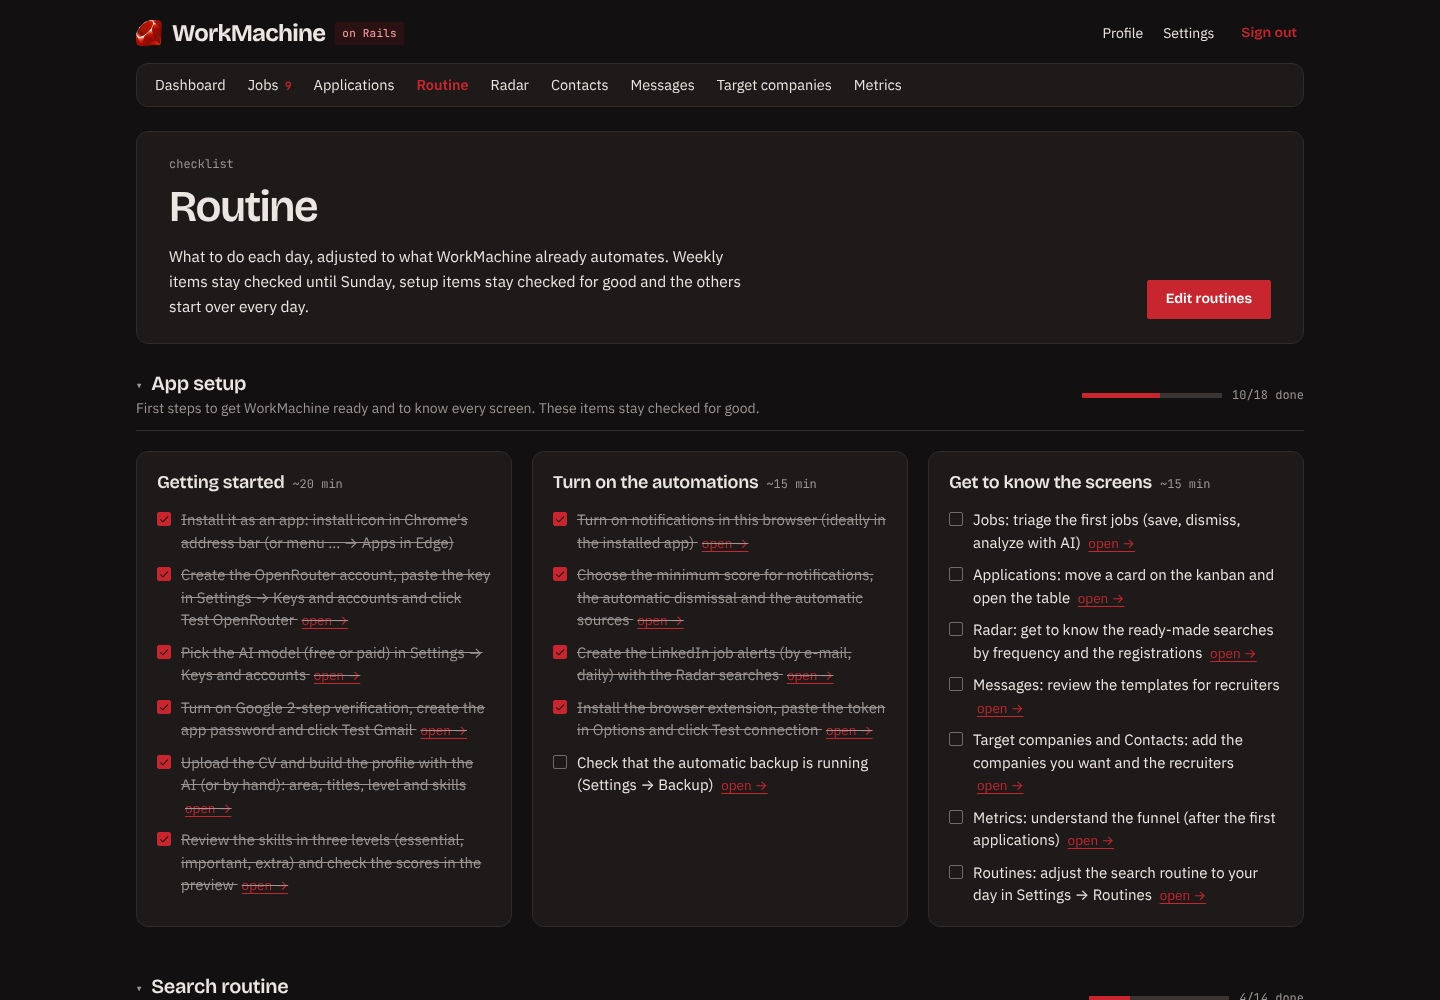
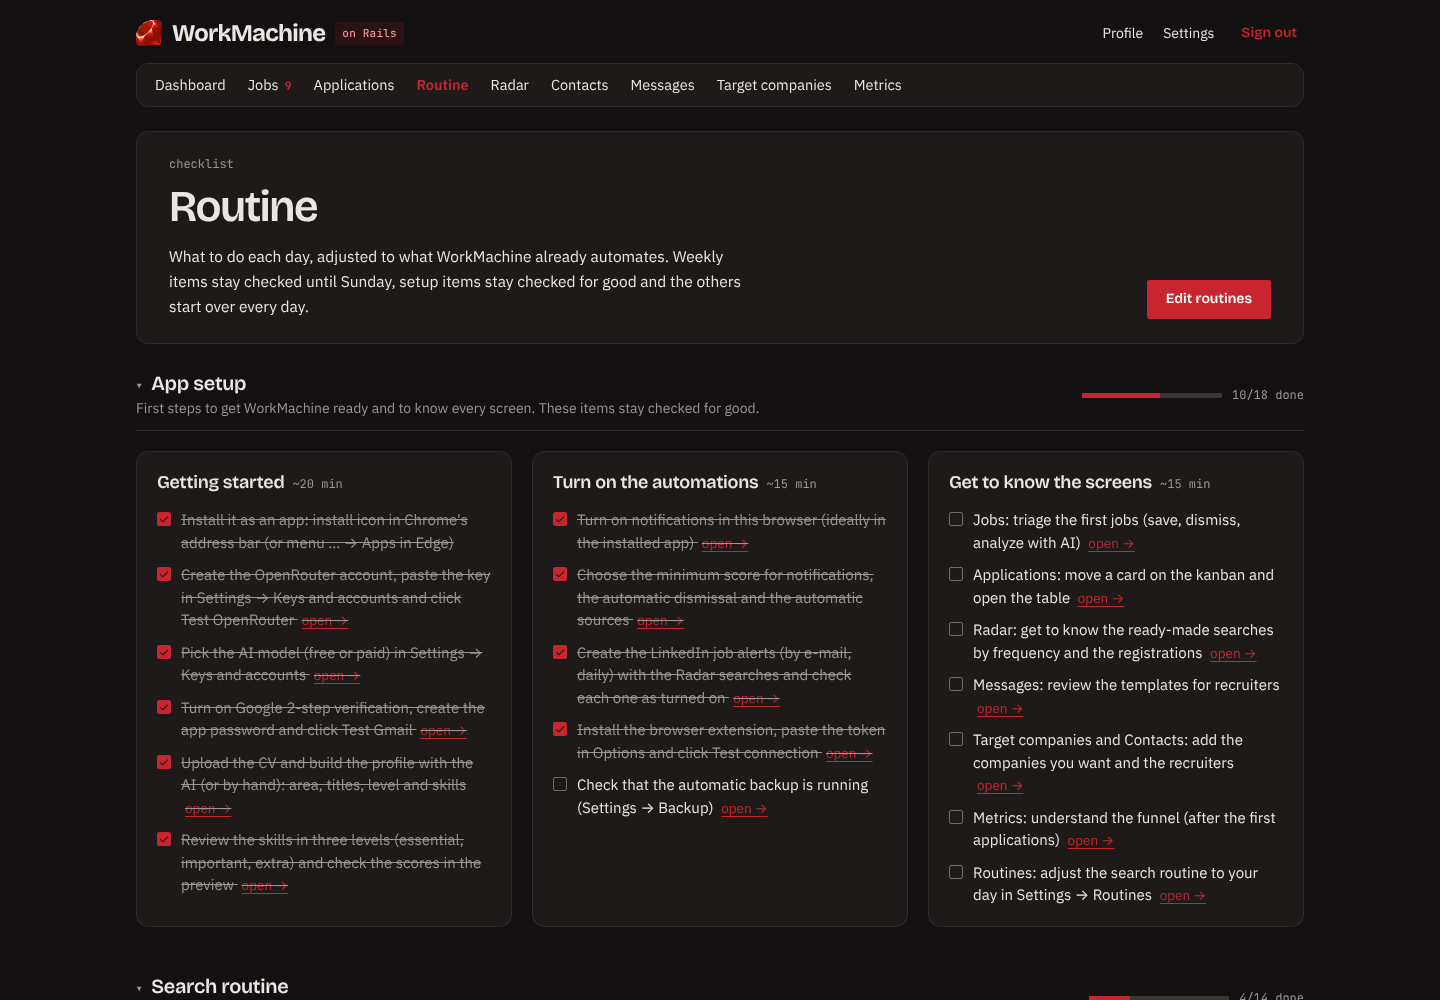
Feat: alertas do LinkedIn com caixa de ativado no Radar
- Cada busca de Alertas do LinkedIn ganha a caixa "ativado": as marcadas vão
  para o fim da lista, com a data, e a contagem "3 de 7 alertas ativados"
- A marcação fica gravada pela consulta (ActivatedAlert): quando o perfil muda
  uma busca, ela volta como alerta novo, e a antiga aparece em "Buscas antigas
  que continuam ativadas", para desligar no LinkedIn
- O topo do Radar avisa quantos alertas faltam ativar (com o atalho para a
  seção) e a aba Uma vez mostra o número
- Ao salvar o perfil, o aviso diz quantos alertas novos o Radar tem
- Rotina, READMEs e prints do Radar e da Rotina atualizados

Changed region(s): [[0.375, 0.651, 0.625, 0.837]]

diff --git a/app/javascript/controllers/cadence_controller.js b/app/javascript/controllers/cadence_controller.js
@@ -1,14 +1,13 @@
 import { Controller } from "@hotwired/stimulus"
 
 // Radar: shows only the tasks of the chosen frequency (Todo dia, Toda semana, Uma vez). The choice
-// goes in the address (#weekly), and a link to a task (#cadastros) opens its frequency.
+// goes in the address (#weekly), and a link to a task (#cadastros) opens its frequency, also from
+// the same page (the "alertas para ativar" notice).
 export default class extends Controller {
   static targets = ["option", "panel"]
 
   connect() {
-    const hash = decodeURIComponent(window.location.hash.slice(1))
-    const panel = hash ? document.getElementById(hash)?.closest("[data-cadence]") : null
-    this.show(panel?.dataset.cadence || this.optionTargets.find((option) => option.checked)?.value)
+    this.show(this.linkedPanel()?.dataset.cadence || this.optionTargets.find((option) => option.checked)?.value)
   }
 
   change(event) {
@@ -16,8 +15,20 @@ export default class extends Controller {
     window.history.replaceState(window.history.state, "", `#${event.target.value}`)
   }
 
+  follow() {
+    const panel = this.linkedPanel()
+    if (!panel) return
+    this.show(panel.dataset.cadence)
+    document.getElementById(decodeURIComponent(window.location.hash.slice(1)))?.scrollIntoView()
+  }
+
   show(key) {
     this.optionTargets.forEach((option) => { option.checked = option.value === key })
     this.panelTargets.forEach((panel) => { panel.hidden = panel.dataset.cadence !== key })
+  }
+
+  linkedPanel() {
+    const hash = decodeURIComponent(window.location.hash.slice(1))
+    return hash ? document.getElementById(hash)?.closest("[data-cadence]") : null
   }
 }

diff --git a/spec/requests/radar_spec.rb b/spec/requests/radar_spec.rb
@@ -30,11 +30,75 @@ RSpec.describe "Radar" do
     expect(response.body).to include("1 alerta lido; o último chegou em 20/10 08:42")
   end
 
+  describe "LinkedIn alerts" do
+    let(:searches) { Radar.alert_searches }
+
+    it "lists the alerts with a box, the ones already on at the end, and counts the ones left" do
+      cargos = searches.find { it["key"] == "alert_cargos" }
+      ActivatedAlert.create!(search_key: "alert_cargos", query: cargos["query"], created_at: Time.zone.local(2026, 10, 20, 9))
+
+      get radar_path
+
+      body = response.body
+      left = searches.size - 1
+      expect(body).to include("#{left} alertas do LinkedIn para ativar", 'href="#linkedin_alerts"', "1 de #{searches.size} alertas ativados", "ativado em 20/10")
+      expect(body).to match(%r{id="pending_alerts_count"[^>]*>#{left}</span>})
+      expect(body).to include('id="alert_alert_nivel"', 'id="alert_alert_cargos"')
+      expect(body.index('id="alert_alert_nivel"')).to be < body.index('id="alert_alert_cargos"')
+      expect(body).not_to include("Buscas antigas que continuam ativadas")
+    end
+
+    it "lists the alerts turned on for a query that the profile no longer makes" do
+      ActivatedAlert.create!(search_key: "alert_cargos", query: '("Desenvolvedor Python" OR "Python Developer")')
+
+      get radar_path
+
+      expect(response.body).to include("Buscas antigas que continuam ativadas", "Cargos alvo", "Desenvolvedor Python")
+    end
+
+    it "hides the notice while the profile is empty" do
+      Profile.current.update!(skills: [], search_terms: [])
+
+      get radar_path
+
+      expect(response.body).not_to include("para ativar")
+    end
+  end
+
   it "applies and remembers the filters" do
     get radar_path(li_region: "world_remote", li_period: "r2592000")
     get radar_path
 
     expect(response.body).to include("geoId=92000000&amp;f_WT=2&amp;f_TPR=r2592000")
+  end
+end
+
+RSpec.describe "Activated alerts" do
+  before { sign_in }
+
+  let(:search) { Radar.alert_searches.first }
+
+  it "turns an alert on and off, sending the list back in its new order" do
+    post activated_alerts_path, params: { search_key: search["key"], query: search["query"] }, as: :turbo_stream
+
+    expect(response.media_type).to eq(Mime[:turbo_stream])
+    alert = ActivatedAlert.sole
+    expect(alert).to have_attributes(search_key: search["key"], query: search["query"])
+    expect(response.body).to include("linkedin_alerts_list", "pending_alerts_count", "1 de #{Radar.alert_searches.size} alertas ativados")
+
+    post activated_alerts_path, params: { search_key: search["key"], query: search["query"] }, as: :turbo_stream
+    expect(ActivatedAlert.count).to eq(1)
+
+    delete activated_alert_path(alert)
+
+    expect(response).to redirect_to(radar_path(anchor: "linkedin_alerts"))
+    expect(ActivatedAlert.count).to eq(0)
+  end
+
+  it "ignores an alert that is already off" do
+    delete activated_alert_path(42), as: :turbo_stream
+
+    expect(response).to have_http_status(:ok)
   end
 end
 

diff --git a/spec/models/activated_alert_spec.rb b/spec/models/activated_alert_spec.rb
@@ -1,0 +1,32 @@
+require "rails_helper"
+
+RSpec.describe ActivatedAlert do
+  let(:searches) do
+    [ { "key" => "alert_cargos", "query" => "(Rails OR Ruby)" }, { "key" => "alert_area", "query" => "Rails AND backend" },
+      { "key" => "alert_nivel", "query" => "Rails AND senior" } ]
+  end
+
+  it "puts the alerts to turn on first and the ones already on at the end, the latest last" do
+    nivel = described_class.create!(search_key: "alert_nivel", query: "Rails AND senior", created_at: 2.days.ago)
+    cargos = described_class.create!(search_key: "alert_cargos", query: "(Rails OR Ruby)", created_at: 1.day.ago)
+
+    sorted = described_class.sorted(searches)
+
+    expect(sorted.map { it.first["key"] }).to eq(%w[alert_area alert_nivel alert_cargos])
+    expect(sorted.map(&:last)).to eq([ nil, nivel, cargos ])
+    expect(described_class.pending_count(searches)).to eq(1)
+  end
+
+  it "lists as outdated the alerts turned on for a query the profile no longer makes" do
+    described_class.create!(search_key: "alert_area", query: "Rails AND backend")
+    old = described_class.create!(search_key: "alert_area", query: "Ruby AND backend")
+
+    expect(described_class.outdated(searches)).to eq([ old ])
+  end
+
+  it "keeps one alert per query" do
+    described_class.create!(search_key: "alert_area", query: "Rails AND backend")
+
+    expect(described_class.new(search_key: "alert_nivel", query: "Rails AND backend")).not_to be_valid
+  end
+end

diff --git a/app/controllers/activated_alerts_controller.rb b/app/controllers/activated_alerts_controller.rb
@@ -1,0 +1,30 @@
+# The "ativado" box of the LinkedIn alerts in the Radar. The whole list is rendered again, since a
+# checked alert moves to the end, and so are the counts of alerts left to turn on.
+class ActivatedAlertsController < ApplicationController
+  def create
+    ActivatedAlert.find_or_create_by!(query: params.require(:query)) { it.search_key = params.require(:search_key) }
+    render_list
+  end
+
+  def destroy
+    ActivatedAlert.find_by(id: params[:id])&.destroy!
+    render_list
+  end
+
+  private
+    def render_list
+      respond_to do |format|
+        format.turbo_stream do
+          profile = Profile.current
+          pending = Radar.pending_alerts(profile)
+          render turbo_stream: [
+            turbo_stream.replace("linkedin_alerts_list", partial: "radar/alerts",
+                                                         locals: { searches: Radar.alert_searches(profile), filters: Radar.sanitize_filters(session[:radar_filters]), location: profile.location }),
+            turbo_stream.update("pending_alerts", partial: "radar/pending_alerts", locals: { count: pending }),
+            turbo_stream.update("pending_alerts_count", pending.positive? ? pending.to_s : "")
+          ]
+        end
+        format.html { redirect_to radar_path(anchor: "linkedin_alerts") }
+      end
+    end
+end

diff --git a/app/controllers/profiles_controller.rb b/app/controllers/profiles_controller.rb
@@ -9,12 +9,13 @@ class ProfilesController < ApplicationController
   end
 
   def update
+    alerts_before = Radar.alert_searches(@profile).map { it["query"] }
     @profile.assign_attributes(profile_params)
     @profile.drop_default_overrides
     @profile.assign_attributes(cv_draft: nil, cv_draft_status: nil) if params[:from_draft].present?
 
     if @profile.save
-      redirect_to profile_path, notice: rescore_notice
+      redirect_to profile_path, notice: [ rescore_notice, new_alerts_notice(alerts_before) ].compact.join(" ")
     else
       @from_draft = params[:from_draft].present?
       render :show, status: :unprocessable_content
@@ -74,6 +75,13 @@ class ProfilesController < ApplicationController
         work_modes: [], regions: [], avoid_terms: [], skills: [ [ :name, :level, :synonyms, :_destroy ] ],
         search_overrides: Radar.searches.map { it.fetch("key") }
       ])
+    end
+
+    # The profile changed the queries of the LinkedIn alerts: the new ones wait in the Radar.
+    def new_alerts_notice(before)
+      queries = Radar.alert_searches(@profile).map { it["query"] } - before
+      count = queries.size - ActivatedAlert.where(query: queries).count
+      t("flash.profile.new_alerts", count:) if count.positive?
     end
 
     def rescore_notice

diff --git a/app/models/activated_alert.rb b/app/models/activated_alert.rb
@@ -1,0 +1,25 @@
+# A LinkedIn job alert the person turned on from a search of the Radar (Alertas do LinkedIn). It is
+# tied to the query, not to the search: when a change in the profile changes the query, the search
+# comes back as a new alert to turn on, and this one is listed as outdated, to turn off on LinkedIn.
+class ActivatedAlert < ApplicationRecord
+  validates :search_key, presence: true
+  validates :query, presence: true, uniqueness: true
+
+  # The alert searches in the order to work on them: the ones to turn on first (in the order of
+  # config/radar.yml), then the ones already on, the latest at the end. Each comes with its
+  # ActivatedAlert, or nil.
+  def self.sorted(searches)
+    activations = where(query: searches.map { it["query"] }).index_by(&:query)
+    pending, activated = searches.map { [ it, activations[it["query"]] ] }.partition { |_, activation| activation.nil? }
+    pending + activated.sort_by { |_, activation| activation.created_at }
+  end
+
+  def self.pending_count(searches)
+    searches.size - where(query: searches.map { it["query"] }).count
+  end
+
+  # Turned on for a query that the profile no longer makes.
+  def self.outdated(searches)
+    where.not(query: searches.map { it["query"] }).order(:created_at)
+  end
+end

diff --git a/spec/requests/english_spec.rb b/spec/requests/english_spec.rb
@@ -45,9 +45,11 @@ RSpec.describe "English interface" do
       create(:message_template, name: "Recruiter note", language: "en", body: "Hi {{nome}}, about the {{cargo}} role at {{empresa}}.", max_chars: 200)
       create(:target_company, name: "GitLab", board_slug: "gitlab")
       create(:consultancy, name: "Example Talent", notes: "Tech recruiting.")
+      ActivatedAlert.create!(search_key: "alert_area", query: "Rails AND backend")
       SourceRun.create!(source: "remotive", status: "succeeded", fetched_count: 10, created_count: 2, finished_at: Time.current)
       Profile.current.update!(skills: [ { "name" => "Rails", "level" => "essential", "synonyms" => [ "Ruby on Rails" ] }, { "name" => "React", "level" => "extra" } ],
                               domains: [ "fintech" ], languages: "English")
+      ActivatedAlert.create!(search_key: "alert_cargos", query: Radar.alert_searches.find { it["key"] == "alert_cargos" }["query"])
       # The ready-made routines are copied in the language of the first visit.
       I18n.with_locale(:en) { Routine.current }
     end

diff --git a/app/models/radar.rb b/app/models/radar.rb
@@ -50,6 +50,16 @@ class Radar
       tasks_for(profile).flat_map { it["searches"] }
     end
 
+    # The searches with the "ativado" box (Alertas do LinkedIn), filled in from the profile.
+    def alert_searches(profile = Profile.current)
+      tasks_for(profile).select { it["checkable"] }.flat_map { it["searches"] }
+    end
+
+    # How many of them are left to turn on (none while the profile is empty).
+    def pending_alerts(profile = Profile.current)
+      profile.configured? ? ActivatedAlert.pending_count(alert_searches(profile)) : 0
+    end
+
     # Terms to fill in the profiles of platforms and consultancies (Cadastros).
     def profile_keywords(profile = Profile.current)
       {

diff --git a/db/schema.rb b/db/schema.rb
@@ -10,7 +10,15 @@
 #
 # It's strongly recommended that you check this file into your version control system.
 
-ActiveRecord::Schema[8.1].define(version: 2026_10_23_120000) do
+ActiveRecord::Schema[8.1].define(version: 2026_10_23_160400) do
+  create_table "activated_alerts", force: :cascade do |t|
+    t.string "search_key", null: false
+    t.string "query", null: false
+    t.datetime "created_at", null: false
+    t.datetime "updated_at", null: false
+    t.index ["query"], name: "index_activated_alerts_on_query", unique: true
+  end
+
   create_table "active_storage_attachments", force: :cascade do |t|
     t.string "name", null: false
     t.string "record_type", null: false

diff --git a/spec/requests/profiles_spec.rb b/spec/requests/profiles_spec.rb
@@ -31,6 +31,12 @@ RSpec.describe "Profile" do
     expect(profile.skills).to eq([ { "name" => "Python", "level" => "essential", "synonyms" => [ "py" ] } ])
   end
 
+  it "tells when the change brings LinkedIn alerts to turn on" do
+    patch profile_path, params: { profile: { target_titles: "Engenheira de Plataforma" } }
+
+    expect(flash[:notice]).to end_with("recalculadas. O Radar tem 1 alerta do LinkedIn novo para ativar.")
+  end
+
   it "clears the skills and the terms to avoid when every chip is removed" do
     profile.update!(avoid_terms: [ "PHP" ])
 

diff --git a/script/readme/demo_data.rb b/script/readme/demo_data.rb
@@ -136,6 +136,7 @@ TargetCompany.create!(name: "Pomar Tech", ats: "ashby", board_slug: "kora-exempl
 end
 
 Consultancy.order(:id).limit(4).each { it.update!(registered_on: today - 10) }
+Radar.alert_searches.first(3).each { ActivatedAlert.create!(search_key: it["key"], query: it["query"], created_at: now - 10.days) }
 # The ready-made routines are copied in the language of the first visit.
 I18n.with_locale(english ? :en : :"pt-BR") { Routine.current }
 %w[m1 m2 m4 a1].each { Routine.toggle!(it) }

diff --git a/app/controllers/radar_controller.rb b/app/controllers/radar_controller.rb
@@ -5,6 +5,7 @@ class RadarController < ApplicationController
     @config = Radar.config
     @profile = Profile.current
     @tasks = Radar.tasks_for(@profile).group_by { it["cadence"] }
+    @pending_alerts = Radar.pending_alerts(@profile)
     @automated = Radar.automated
     @gmail_configured = LinkedinAlerts::Importer.configured?
     @alerts = { emails: ProcessedEmail.count, last_received_at: ProcessedEmail.maximum(:received_at) }
